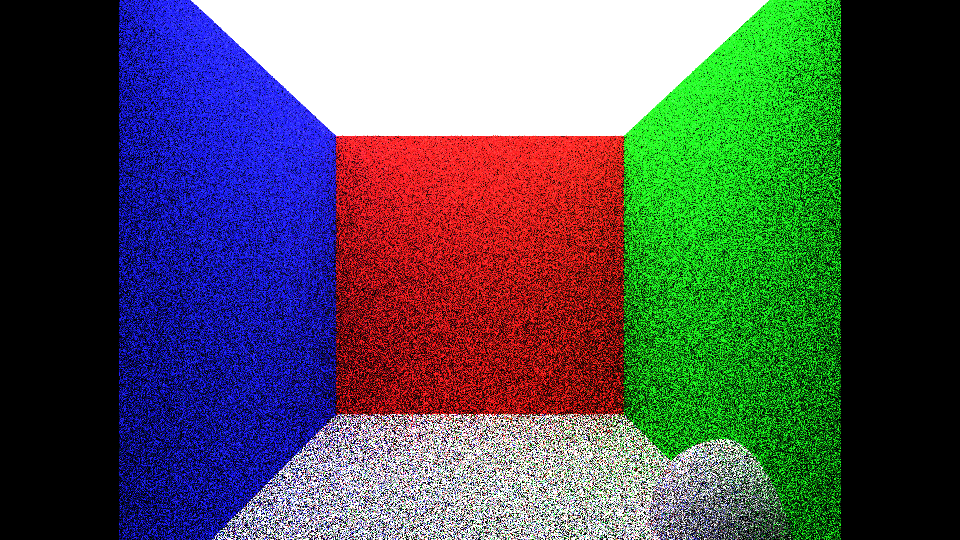
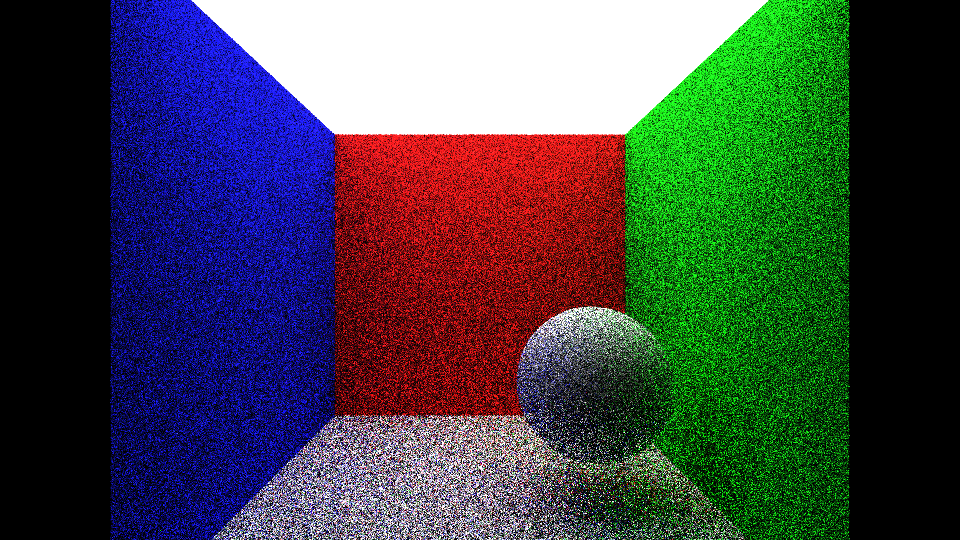
TEst...

diff --git a/src/scenes.rs b/src/scenes.rs
@@ -1031,8 +1031,9 @@ pub fn scene() -> Box<Op> {
     //torus = Box::new(RotateZ(Box::new(*torus), PI/1.8));
     //torus = Box::new(RotateY(Box::new(*torus), PI/3.8));
 
+    let sphere_size = cube_side/3.0;
     sphere = Box::new(Scale(Box::new(*sphere), cube_side/3.0));
-    sphere = Box::new(Move(Box::new(*sphere), Vec3{x:-cube_side/2.0, y:cube_side, z:cube_side}));
+    sphere = Box::new(Move(Box::new(*sphere), Vec3{x:-cube_side/2.0+sphere_size, y:cube_side/2.0, z:cube_side/2.0}));
     
 
     //Assemble
@@ -1068,7 +1069,7 @@ pub fn scene() -> Box<Op> {
             cube_light,
     ))));
 
-    objects = Box::new(Move(Box::new(*objects), Vec3 { x:cube_side*2.33, y: 0.0, z: 0.0 }));
+    objects = Box::new(Move(Box::new(*objects), Vec3 { x:cube_side*2.3, y: 0.0, z: 0.0 }));
     //objects = Box::new(RotateZ(Box::new(*objects), -PI/4.0));
     //objects = Box::new(RotateY(Box::new(*objects), PI/4.0));
 
